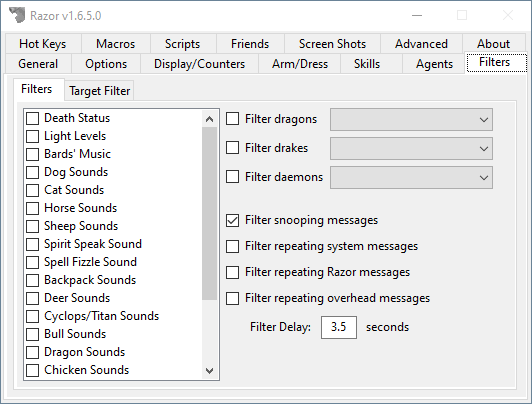
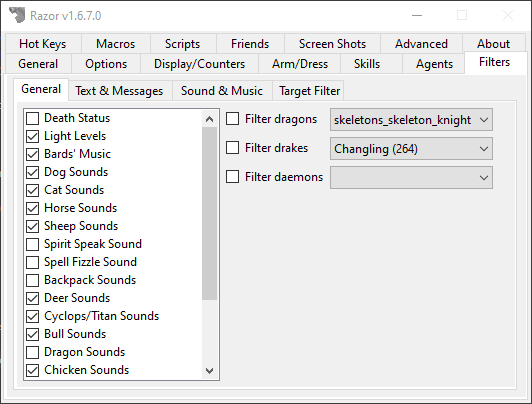
[chore] Update docs to reflect filter changes

diff --git a/help/docs/help/filters.md b/help/docs/help/filters.md
@@ -1,6 +1,6 @@
 # Filters
 
-## Filters
+## General
 
 ![filters](../images/filters.png)
 
@@ -19,7 +19,13 @@ Filters will change the way the client will display visuals or play audio.
 * **Filter daemons**
     * Override the daemon graphic and replace it with something else.
 
-* **Message Filters**
+## Text & Messages
+
+* **Text Filter**
+
+Enable the text filter to block all text from any mobile.
+
+* **Filter Messages**
 
 Instead of spamming your screen system or overhead messages, if checked it will keep filtering messages as long as you have the filter delay. When those seconds pass, it will show you the message.
 

diff --git a/help/docs/faq.md b/help/docs/faq.md
@@ -99,5 +99,8 @@ Razor supports the following in-game commands (not case-sensitive).
         * `2` - Fall
         * `3` - Winter
         * `4` - Desolation (Feluccia)
-* `set [variable]` - Sets a macro variable
+* `set [variable]` - Sets a macro variable* 
 * `waypoint [x] [y]` or `track off` - Sets a waypoint at a specific `X/Y` location. If you pass `off` it will remove it from the client.
+* `sysmsgs` - Show the current system message buffer
+* `boat` - Show in-game boat control gump
+* `hotkeys` - Show in-game gump with used hot keys
